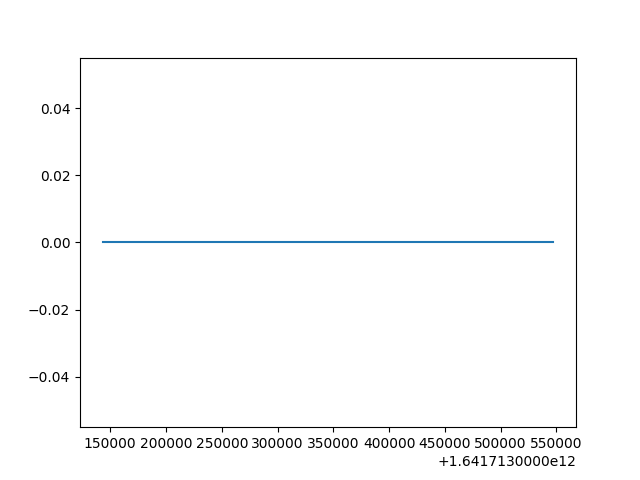
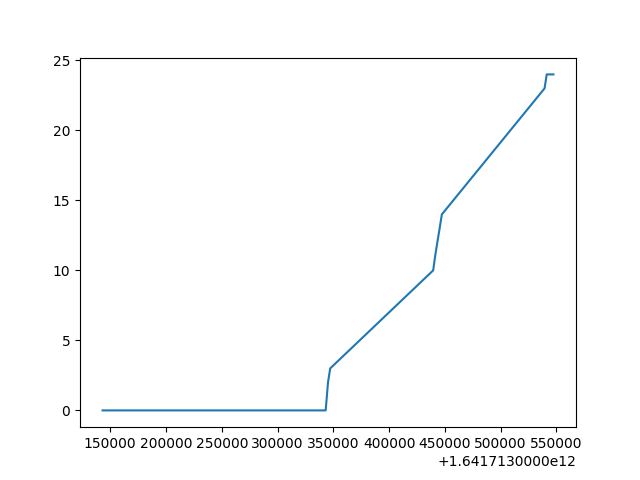
add

diff --git a/json_convert_to_csv/sender_info.py b/json_convert_to_csv/sender_info.py
@@ -26,17 +26,17 @@ def save_f(_topic, _data_list, _device):
 
         text = i[9]
         text = text[-2:]
-        print(i[2])
+        #print(i[2])
         unix = float(i[2])
-        print(unix)
-        print(type(unix))
+        #print(unix)
+        #print(type(unix))
         #if _device in i:
         #if _device in i and (text == "ra" or text == "RA"):
         if _device in i and text == "ma":
-            if i[12] == '':
+            if i[11] == '':
                 y_list.append(0.0)
             else:
-                y_list.append(float(i[12]))
+                y_list.append(float(i[11]))
             x_list.append(unix)
             #y_list.append(float(i[11]))
             device_concat.append(i)
